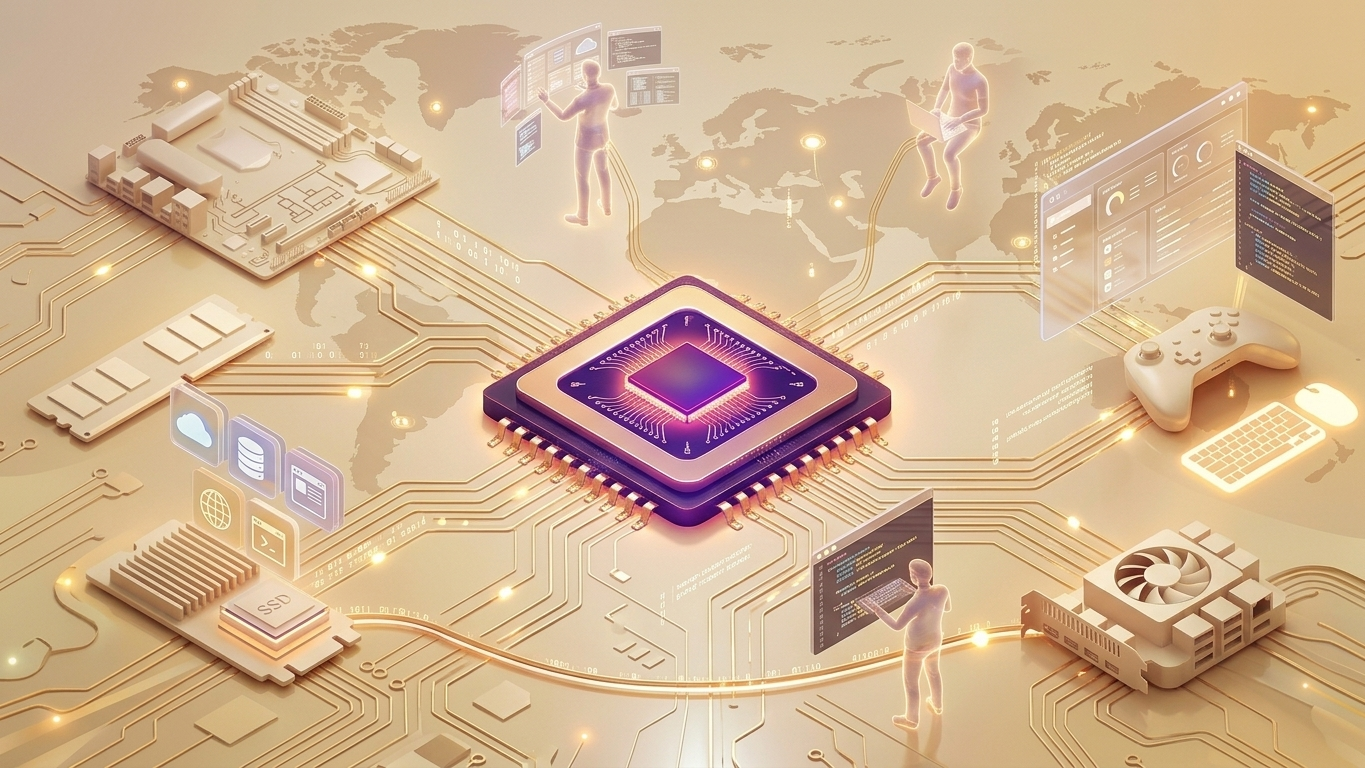
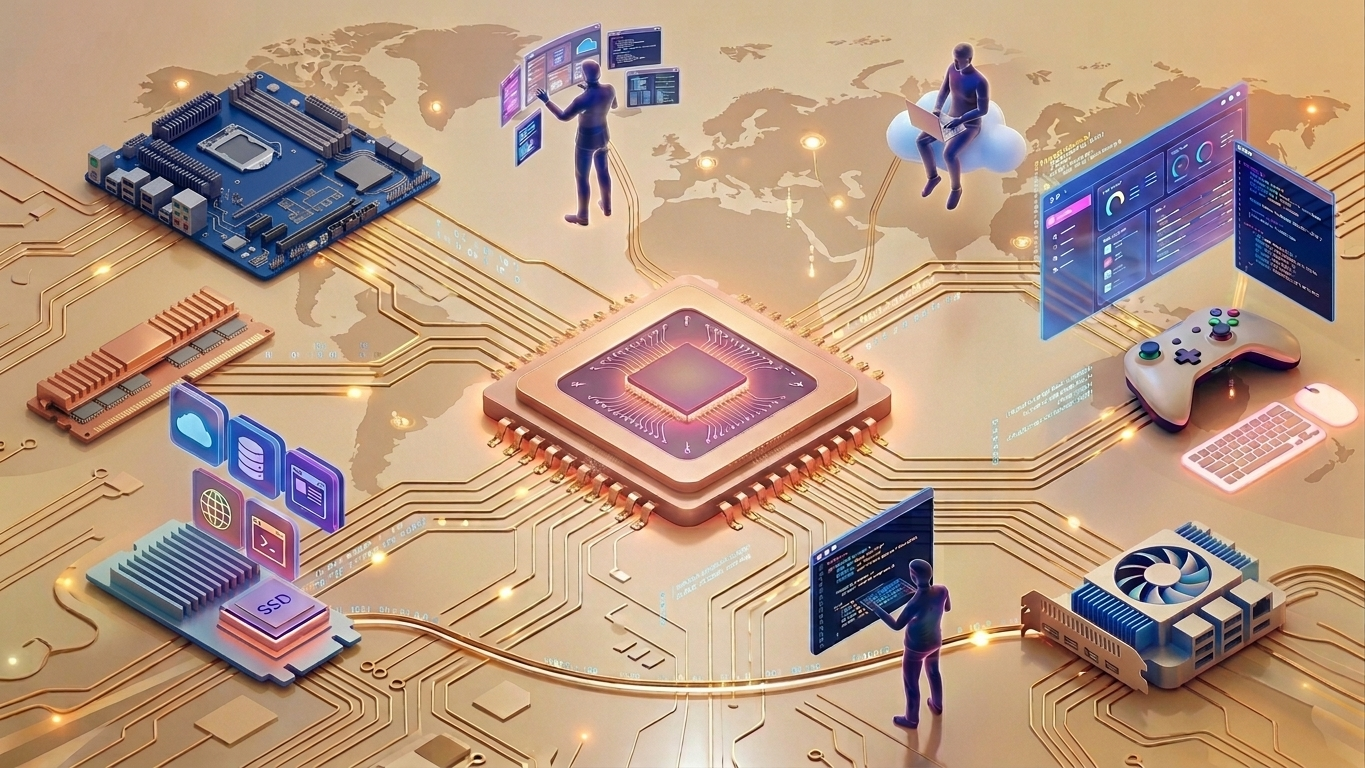
feat(mpi-sk): tambah halaman dokumentasi prompt ai dan atribusi gambar sesuai juknis lomba

diff --git a/karya/mpi/sistem-komputer/index.html b/karya/mpi/sistem-komputer/index.html
@@ -1550,13 +1550,199 @@
       <div class="nav-bottom right nav-materi-compound">
         <div class="nav-materi-label right" onclick="navNext()">
           <span class="nml-sub">HALAMAN BERIKUTNYA</span>
-          <strong class="nml-main">Profil Pengembang</strong>
+          <strong class="nml-main">Dokumentasi Prompt AI</strong>
         </div>
         <button class="nav-arrow" onclick="navNext()" id="btn-referensi-next" title="Selanjutnya">▶</button>
       </div>
     </section>
 
-    <!-- ============================== PAGE 16: PENGEMBANG ============================== -->
+    <!-- ============================== PAGE 17: PROMPT AI & ATRIBUSI ============================== -->
+    <section id="page-prompt-ai" class="page">
+      <div class="nav-top">
+        <button class="nav-circle" onclick="goToPage('menu')" id="btn-prompt-ai-menu">☰</button>
+        <span class="nav-label">MENU</span>
+      </div>
+
+      <div class="title-bar">Dokumentasi Prompt AI &amp; Atribusi Gambar</div>
+      <div class="content-box wide scrollable" style="max-height:490px;padding:18px 24px;">
+        <div style="background:#e0f7fa;border-left:5px solid #00ACC1;padding:12px 18px;border-radius:10px;margin-bottom:16px;text-align:left;">
+          <div style="font-weight:800;color:#006064;font-size:14px;margin-bottom:3px;">📜 Ketentuan Juknis Festival Biru Putih — Transparansi Aset Digital</div>
+          <div style="font-size:12.5px;color:#334155;line-height:1.5;">
+            Selaras dengan prinsip integritas akademik, orisinalitas, dan kejujuran karya pada Juknis Lomba Festival Biru Putih 2026, seluruh aset visual yang dihasilkan menggunakan kecerdasan buatan (Generative AI) dicantumkan secara transparan beserta deskripsi prompt teks bahasa Inggris orisinal yang digunakan:
+          </div>
+        </div>
+
+        <!-- Grid of Prompt Cards -->
+        <div style="display:grid;grid-template-columns:1fr 1fr;gap:12px;text-align:left;">
+          <!-- Item 1 -->
+          <div class="prompt-ai-card" style="background:#ffffff;border:1.5px solid #cbd5e1;border-radius:12px;padding:10px 12px;display:flex;gap:12px;box-shadow:0 2px 8px rgba(0,0,0,0.04);transition:all 0.2s;">
+            <img src="assets/comp_cpu_good.jpg" style="width:68px;height:68px;border-radius:8px;object-fit:cover;border:1px solid #e2e8f0;flex-shrink:0;" alt="CPU Multi-Core">
+            <div style="flex:1;min-width:0;">
+              <div style="display:flex;justify-content:space-between;align-items:center;margin-bottom:3px;">
+                <strong style="font-size:12.5px;color:#0f172a;">CPU Multi-Core LGA</strong>
+                <span style="background:#dcfce7;color:#166534;font-size:10px;font-weight:700;padding:2px 6px;border-radius:4px;">Misi 1 Rakit PC</span>
+              </div>
+              <div style="font-size:11px;color:#64748b;margin-bottom:4px;">Aset: <code>assets/comp_cpu_good.jpg</code></div>
+              <div style="background:#f8fafc;border:1px solid #e2e8f0;border-radius:6px;padding:6px 8px;font-family:monospace;font-size:10.5px;color:#334155;line-height:1.35;max-height:55px;overflow-y:auto;">
+                Modern high-end desktop computer CPU processor chip, silver metallic heat spreader with engraved logo, golden contact pads underneath, high quality isometric 3D render, clean isolated light background, educational tech icon
+              </div>
+            </div>
+          </div>
+
+          <!-- Item 2 -->
+          <div class="prompt-ai-card" style="background:#ffffff;border:1.5px solid #cbd5e1;border-radius:12px;padding:10px 12px;display:flex;gap:12px;box-shadow:0 2px 8px rgba(0,0,0,0.04);transition:all 0.2s;">
+            <img src="assets/comp_cpu_bad.jpg" style="width:68px;height:68px;border-radius:8px;object-fit:cover;border:1px solid #e2e8f0;flex-shrink:0;" alt="CPU Jadul Rusak">
+            <div style="flex:1;min-width:0;">
+              <div style="display:flex;justify-content:space-between;align-items:center;margin-bottom:3px;">
+                <strong style="font-size:12.5px;color:#0f172a;">CPU Jadul (Pin Patah)</strong>
+                <span style="background:#fee2e2;color:#991b1b;font-size:10px;font-weight:700;padding:2px 6px;border-radius:4px;">Pengecoh Misi 1</span>
+              </div>
+              <div style="font-size:11px;color:#64748b;margin-bottom:4px;">Aset: <code>assets/comp_cpu_bad.jpg</code></div>
+              <div style="background:#f8fafc;border:1px solid #e2e8f0;border-radius:6px;padding:6px 8px;font-family:monospace;font-size:10.5px;color:#334155;line-height:1.35;max-height:55px;overflow-y:auto;">
+                Old damaged computer CPU processor with bent gold pins underneath and a small crack on corner, isometric 3D render, clean isolated light background, educational tech illustration showing defective hardware
+              </div>
+            </div>
+          </div>
+
+          <!-- Item 3 -->
+          <div class="prompt-ai-card" style="background:#ffffff;border:1.5px solid #cbd5e1;border-radius:12px;padding:10px 12px;display:flex;gap:12px;box-shadow:0 2px 8px rgba(0,0,0,0.04);transition:all 0.2s;">
+            <img src="assets/comp_ram_good.jpg" style="width:68px;height:68px;border-radius:8px;object-fit:cover;border:1px solid #e2e8f0;flex-shrink:0;" alt="RAM DDR4">
+            <div style="flex:1;min-width:0;">
+              <div style="display:flex;justify-content:space-between;align-items:center;margin-bottom:3px;">
+                <strong style="font-size:12.5px;color:#0f172a;">RAM 16GB DDR4</strong>
+                <span style="background:#dcfce7;color:#166534;font-size:10px;font-weight:700;padding:2px 6px;border-radius:4px;">Misi 1 Rakit PC</span>
+              </div>
+              <div style="font-size:11px;color:#64748b;margin-bottom:4px;">Aset: <code>assets/comp_ram_good.jpg</code></div>
+              <div style="background:#f8fafc;border:1px solid #e2e8f0;border-radius:6px;padding:6px 8px;font-family:monospace;font-size:10.5px;color:#334155;line-height:1.35;max-height:55px;overflow-y:auto;">
+                Modern desktop gaming DDR4 RAM memory module stick, dark sleek aluminum heat spreader with gold connector pins at bottom, isometric 3D render, clean isolated light background, high tech computer hardware icon
+              </div>
+            </div>
+          </div>
+
+          <!-- Item 4 -->
+          <div class="prompt-ai-card" style="background:#ffffff;border:1.5px solid #cbd5e1;border-radius:12px;padding:10px 12px;display:flex;gap:12px;box-shadow:0 2px 8px rgba(0,0,0,0.04);transition:all 0.2s;">
+            <img src="assets/comp_ram_bad.jpg" style="width:68px;height:68px;border-radius:8px;object-fit:cover;border:1px solid #e2e8f0;flex-shrink:0;" alt="RAM DDR1 Jadul">
+            <div style="flex:1;min-width:0;">
+              <div style="display:flex;justify-content:space-between;align-items:center;margin-bottom:3px;">
+                <strong style="font-size:12.5px;color:#0f172a;">RAM DDR1 SDRAM Jadul</strong>
+                <span style="background:#fee2e2;color:#991b1b;font-size:10px;font-weight:700;padding:2px 6px;border-radius:4px;">Pengecoh Misi 1</span>
+              </div>
+              <div style="font-size:11px;color:#64748b;margin-bottom:4px;">Aset: <code>assets/comp_ram_bad.jpg</code></div>
+              <div style="background:#f8fafc;border:1px solid #e2e8f0;border-radius:6px;padding:6px 8px;font-family:monospace;font-size:10.5px;color:#334155;line-height:1.35;max-height:55px;overflow-y:auto;">
+                Old vintage computer green circuit board DDR1 SDRAM module stick from early 2000s, exposed black memory chips, dusty worn look, isometric 3D render, clean isolated light background, educational hardware comparison
+              </div>
+            </div>
+          </div>
+
+          <!-- Item 5 -->
+          <div class="prompt-ai-card" style="background:#ffffff;border:1.5px solid #cbd5e1;border-radius:12px;padding:10px 12px;display:flex;gap:12px;box-shadow:0 2px 8px rgba(0,0,0,0.04);transition:all 0.2s;">
+            <img src="assets/comp_ssd_good.jpg" style="width:68px;height:68px;border-radius:8px;object-fit:cover;border:1px solid #e2e8f0;flex-shrink:0;" alt="SSD NVMe M.2">
+            <div style="flex:1;min-width:0;">
+              <div style="display:flex;justify-content:space-between;align-items:center;margin-bottom:3px;">
+                <strong style="font-size:12.5px;color:#0f172a;">SSD M.2 NVMe 512GB</strong>
+                <span style="background:#dcfce7;color:#166534;font-size:10px;font-weight:700;padding:2px 6px;border-radius:4px;">Misi 1 Rakit PC</span>
+              </div>
+              <div style="font-size:11px;color:#64748b;margin-bottom:4px;">Aset: <code>assets/comp_ssd_good.jpg</code></div>
+              <div style="background:#f8fafc;border:1px solid #e2e8f0;border-radius:6px;padding:6px 8px;font-family:monospace;font-size:10.5px;color:#334155;line-height:1.35;max-height:55px;overflow-y:auto;">
+                Modern M.2 NVMe PCIe SSD solid state drive stick, black circuit board with silver metal heatsink label, flash memory chips, gold connector pins, isometric 3D render, clean isolated light background, computer component icon
+              </div>
+            </div>
+          </div>
+
+          <!-- Item 6 -->
+          <div class="prompt-ai-card" style="background:#ffffff;border:1.5px solid #cbd5e1;border-radius:12px;padding:10px 12px;display:flex;gap:12px;box-shadow:0 2px 8px rgba(0,0,0,0.04);transition:all 0.2s;">
+            <img src="assets/comp_floppy_bad.jpg" style="width:68px;height:68px;border-radius:8px;object-fit:cover;border:1px solid #e2e8f0;flex-shrink:0;" alt="Disket Floppy">
+            <div style="flex:1;min-width:0;">
+              <div style="display:flex;justify-content:space-between;align-items:center;margin-bottom:3px;">
+                <strong style="font-size:12.5px;color:#0f172a;">Disket Floppy 1.44MB</strong>
+                <span style="background:#fee2e2;color:#991b1b;font-size:10px;font-weight:700;padding:2px 6px;border-radius:4px;">Pengecoh Misi 1</span>
+              </div>
+              <div style="font-size:11px;color:#64748b;margin-bottom:4px;">Aset: <code>assets/comp_floppy_bad.jpg</code></div>
+              <div style="background:#f8fafc;border:1px solid #e2e8f0;border-radius:6px;padding:6px 8px;font-family:monospace;font-size:10.5px;color:#334155;line-height:1.35;max-height:55px;overflow-y:auto;">
+                Vintage 3.5 inch black computer floppy disk diskette 1.44MB, retro paper label, metal shutter slider, isometric 3D render, clean isolated light background, nostalgic outdated storage icon
+              </div>
+            </div>
+          </div>
+
+          <!-- Item 7 -->
+          <div class="prompt-ai-card" style="background:#ffffff;border:1.5px solid #cbd5e1;border-radius:12px;padding:10px 12px;display:flex;gap:12px;box-shadow:0 2px 8px rgba(0,0,0,0.04);transition:all 0.2s;">
+            <img src="assets/comp_psu_good.jpg" style="width:68px;height:68px;border-radius:8px;object-fit:cover;border:1px solid #e2e8f0;flex-shrink:0;" alt="Power Supply ATX">
+            <div style="flex:1;min-width:0;">
+              <div style="display:flex;justify-content:space-between;align-items:center;margin-bottom:3px;">
+                <strong style="font-size:12.5px;color:#0f172a;">Power Supply 550W 80+</strong>
+                <span style="background:#dcfce7;color:#166534;font-size:10px;font-weight:700;padding:2px 6px;border-radius:4px;">Misi 1 Rakit PC</span>
+              </div>
+              <div style="font-size:11px;color:#64748b;margin-bottom:4px;">Aset: <code>assets/comp_psu_good.jpg</code></div>
+              <div style="background:#f8fafc;border:1px solid #e2e8f0;border-radius:6px;padding:6px 8px;font-family:monospace;font-size:10.5px;color:#334155;line-height:1.35;max-height:55px;overflow-y:auto;">
+                Modern ATX desktop PC power supply unit 550W 80 Plus bronze, matte black metal casing with circular cooling fan grill, bundled black power cables, isometric 3D render, clean isolated light background, high tech hardware icon
+              </div>
+            </div>
+          </div>
+
+          <!-- Item 8 -->
+          <div class="prompt-ai-card" style="background:#ffffff;border:1.5px solid #cbd5e1;border-radius:12px;padding:10px 12px;display:flex;gap:12px;box-shadow:0 2px 8px rgba(0,0,0,0.04);transition:all 0.2s;">
+            <img src="assets/comp_charger_bad.jpg" style="width:68px;height:68px;border-radius:8px;object-fit:cover;border:1px solid #e2e8f0;flex-shrink:0;" alt="Charger HP 10W">
+            <div style="flex:1;min-width:0;">
+              <div style="display:flex;justify-content:space-between;align-items:center;margin-bottom:3px;">
+                <strong style="font-size:12.5px;color:#0f172a;">Adaptor HP 10W</strong>
+                <span style="background:#fee2e2;color:#991b1b;font-size:10px;font-weight:700;padding:2px 6px;border-radius:4px;">Pengecoh Misi 1</span>
+              </div>
+              <div style="font-size:11px;color:#64748b;margin-bottom:4px;">Aset: <code>assets/comp_charger_bad.jpg</code></div>
+              <div style="background:#f8fafc;border:1px solid #e2e8f0;border-radius:6px;padding:6px 8px;font-family:monospace;font-size:10.5px;color:#334155;line-height:1.35;max-height:55px;overflow-y:auto;">
+                Small white 10W USB mobile phone wall charger plug adapter with two metal prongs, isometric 3D render, clean isolated light background, tech icon for low power unsuitable adapter
+              </div>
+            </div>
+          </div>
+
+          <!-- Item 9 -->
+          <div class="prompt-ai-card" style="background:#ffffff;border:1.5px solid #cbd5e1;border-radius:12px;padding:10px 12px;display:flex;gap:12px;box-shadow:0 2px 8px rgba(0,0,0,0.04);transition:all 0.2s;">
+            <img src="assets/trouble_screen_beep.jpg" style="width:68px;height:68px;border-radius:8px;object-fit:cover;border:1px solid #e2e8f0;flex-shrink:0;" alt="Trouble Beep">
+            <div style="flex:1;min-width:0;">
+              <div style="display:flex;justify-content:space-between;align-items:center;margin-bottom:3px;">
+                <strong style="font-size:12.5px;color:#0f172a;">Trouble: Layar Blank &amp; Beep</strong>
+                <span style="background:#e0f2fe;color:#0369a1;font-size:10px;font-weight:700;padding:2px 6px;border-radius:4px;">Misi 3 Kasus 1</span>
+              </div>
+              <div style="font-size:11px;color:#64748b;margin-bottom:4px;">Aset: <code>assets/trouble_screen_beep.jpg</code></div>
+              <div style="background:#f8fafc;border:1px solid #e2e8f0;border-radius:6px;padding:6px 8px;font-family:monospace;font-size:10.5px;color:#334155;line-height:1.35;max-height:55px;overflow-y:auto;">
+                Desktop computer monitor displaying a black screen with a floating No Signal warning message, connected to a modern PC tower with power LED on, alert sound waves icon, clean isometric 3D render, educational computer lab troubleshooting illustration
+              </div>
+            </div>
+          </div>
+
+          <!-- Item 10 -->
+          <div class="prompt-ai-card" style="background:#ffffff;border:1.5px solid #cbd5e1;border-radius:12px;padding:10px 12px;display:flex;gap:12px;box-shadow:0 2px 8px rgba(0,0,0,0.04);transition:all 0.2s;">
+            <img src="assets/trouble_task_manager.jpg" style="width:68px;height:68px;border-radius:8px;object-fit:cover;border:1px solid #e2e8f0;flex-shrink:0;" alt="Task Manager Diagnostik">
+            <div style="flex:1;min-width:0;">
+              <div style="display:flex;justify-content:space-between;align-items:center;margin-bottom:3px;">
+                <strong style="font-size:12.5px;color:#0f172a;">Trouble: Task Manager RAM 98%</strong>
+                <span style="background:#e0f2fe;color:#0369a1;font-size:10px;font-weight:700;padding:2px 6px;border-radius:4px;">Misi 4 Kasus 2</span>
+              </div>
+              <div style="font-size:11px;color:#64748b;margin-bottom:4px;">Aset: <code>assets/trouble_task_manager.jpg</code></div>
+              <div style="background:#f8fafc;border:1px solid #e2e8f0;border-radius:6px;padding:6px 8px;font-family:monospace;font-size:10.5px;color:#334155;line-height:1.35;max-height:55px;overflow-y:auto;">
+                Computer desktop screen displaying a diagnostic Task Manager performance window, prominent red 98 percent RAM memory overload bar chart, clean modern UI graphics, isometric 3D render, computer troubleshooting educational illustration
+              </div>
+            </div>
+          </div>
+        </div>
+      </div>
+
+      <div class="nav-bottom left nav-materi-compound">
+        <button class="nav-arrow" onclick="navPrev()" id="btn-prompt-ai-prev" title="Sebelumnya">◀</button>
+        <div class="nav-materi-label left" onclick="navPrev()">
+          <span class="nml-sub">HALAMAN SEBELUMNYA</span>
+          <strong class="nml-main">Referensi &amp; Daftar Pustaka</strong>
+        </div>
+      </div>
+      <div class="nav-bottom right nav-materi-compound">
+        <div class="nav-materi-label right" onclick="navNext()">
+          <span class="nml-sub">HALAMAN BERIKUTNYA</span>
+          <strong class="nml-main">Profil Pengembang</strong>
+        </div>
+        <button class="nav-arrow" onclick="navNext()" id="btn-prompt-ai-next" title="Selanjutnya">▶</button>
+      </div>
+    </section>
+
+    <!-- ============================== PAGE 18: PENGEMBANG ============================== -->
     <section id="page-pengembang" class="page">
       <div class="nav-top">
         <button class="nav-circle" onclick="goToPage('menu')" id="btn-pengembang-menu">☰</button>
@@ -1623,7 +1809,7 @@
         <button class="nav-arrow" onclick="navPrev()" id="btn-pengembang-prev" title="Sebelumnya">◀</button>
         <div class="nav-materi-label left" onclick="navPrev()">
           <span class="nml-sub">HALAMAN SEBELUMNYA</span>
-          <strong class="nml-main">Referensi &amp; Daftar Pustaka</strong>
+          <strong class="nml-main">Dokumentasi Prompt AI</strong>
         </div>
       </div>
       <div class="nav-bottom right nav-materi-compound">

diff --git a/karya/mpi/sistem-komputer/script.js b/karya/mpi/sistem-komputer/script.js
@@ -225,9 +225,10 @@ const PAGE_INDEX_MAP = {
   'latihan': 14,
   'rangkuman': 15,
   'referensi': 16,
-  'pengembang': 17,
-  'kutipan': 18,
-  'kredit': 19
+  'prompt-ai': 17,
+  'pengembang': 18,
+  'kutipan': 19,
+  'kredit': 20
 };
 
 function updateTestingIndicator(pageId) {
@@ -247,7 +248,7 @@ function updateTestingIndicator(pageId) {
   }
 
   const pageNum = PAGE_INDEX_MAP[pageId] || '?';
-  indicator.innerHTML = `<span>Halaman ${pageNum} / 19</span>`;
+  indicator.innerHTML = `<span>Halaman ${pageNum} / 20</span>`;
   indicator.style.display = 'block';
 }
 
@@ -255,7 +256,7 @@ const LINEAR_PAGES = [
   'cover', 'menu', 'petunjuk', 'tujuan', 'materi-list',
   'materi-1', 'tarik-jawaban', 'materi-2', 'video', 'materi-3',
   'permainan-intro', 'permainan', 'latihan-intro', 'latihan',
-  'rangkuman', 'referensi', 'pengembang', 'kutipan', 'kredit'
+  'rangkuman', 'referensi', 'prompt-ai', 'pengembang', 'kutipan', 'kredit'
 ];
 
 let currentPage = 'cover';
@@ -395,11 +396,17 @@ const JARINGAN_PAGE_NAV_MAP = {
   'referensi': {
     prevText: 'Rangkuman & Refleksi',
     prevSub: 'HALAMAN SEBELUMNYA',
+    nextText: 'Dokumentasi Prompt AI',
+    nextSub: 'HALAMAN BERIKUTNYA'
+  },
+  'prompt-ai': {
+    prevText: 'Referensi & Daftar Pustaka',
+    prevSub: 'HALAMAN SEBELUMNYA',
     nextText: 'Profil Pengembang',
     nextSub: 'HALAMAN BERIKUTNYA'
   },
   'pengembang': {
-    prevText: 'Referensi & Daftar Pustaka',
+    prevText: 'Dokumentasi Prompt AI',
     prevSub: 'HALAMAN SEBELUMNYA',
     nextText: 'Motto / Kutipan Inspirasi',
     nextSub: 'HALAMAN BERIKUTNYA'

diff --git a/karya/mpi/sistem-komputer/config.js b/karya/mpi/sistem-komputer/config.js
@@ -21,7 +21,7 @@ window.MPI_CONFIG = {
     background: {
         // Path gambar latar belakang ruang kelas (mendukung JPG, PNG, WEBP, SVG)
         // Kosongkan ('') jika ingin menggunakan latar belakang animasi SVG internal
-        image: 'assets/sistem_komputer_2.jpg',
+        image: 'assets/sistem_komputer.jpg',
 
         // Mode tampilan background ('cover', 'contain', '100% 100%')
         size: 'cover',
